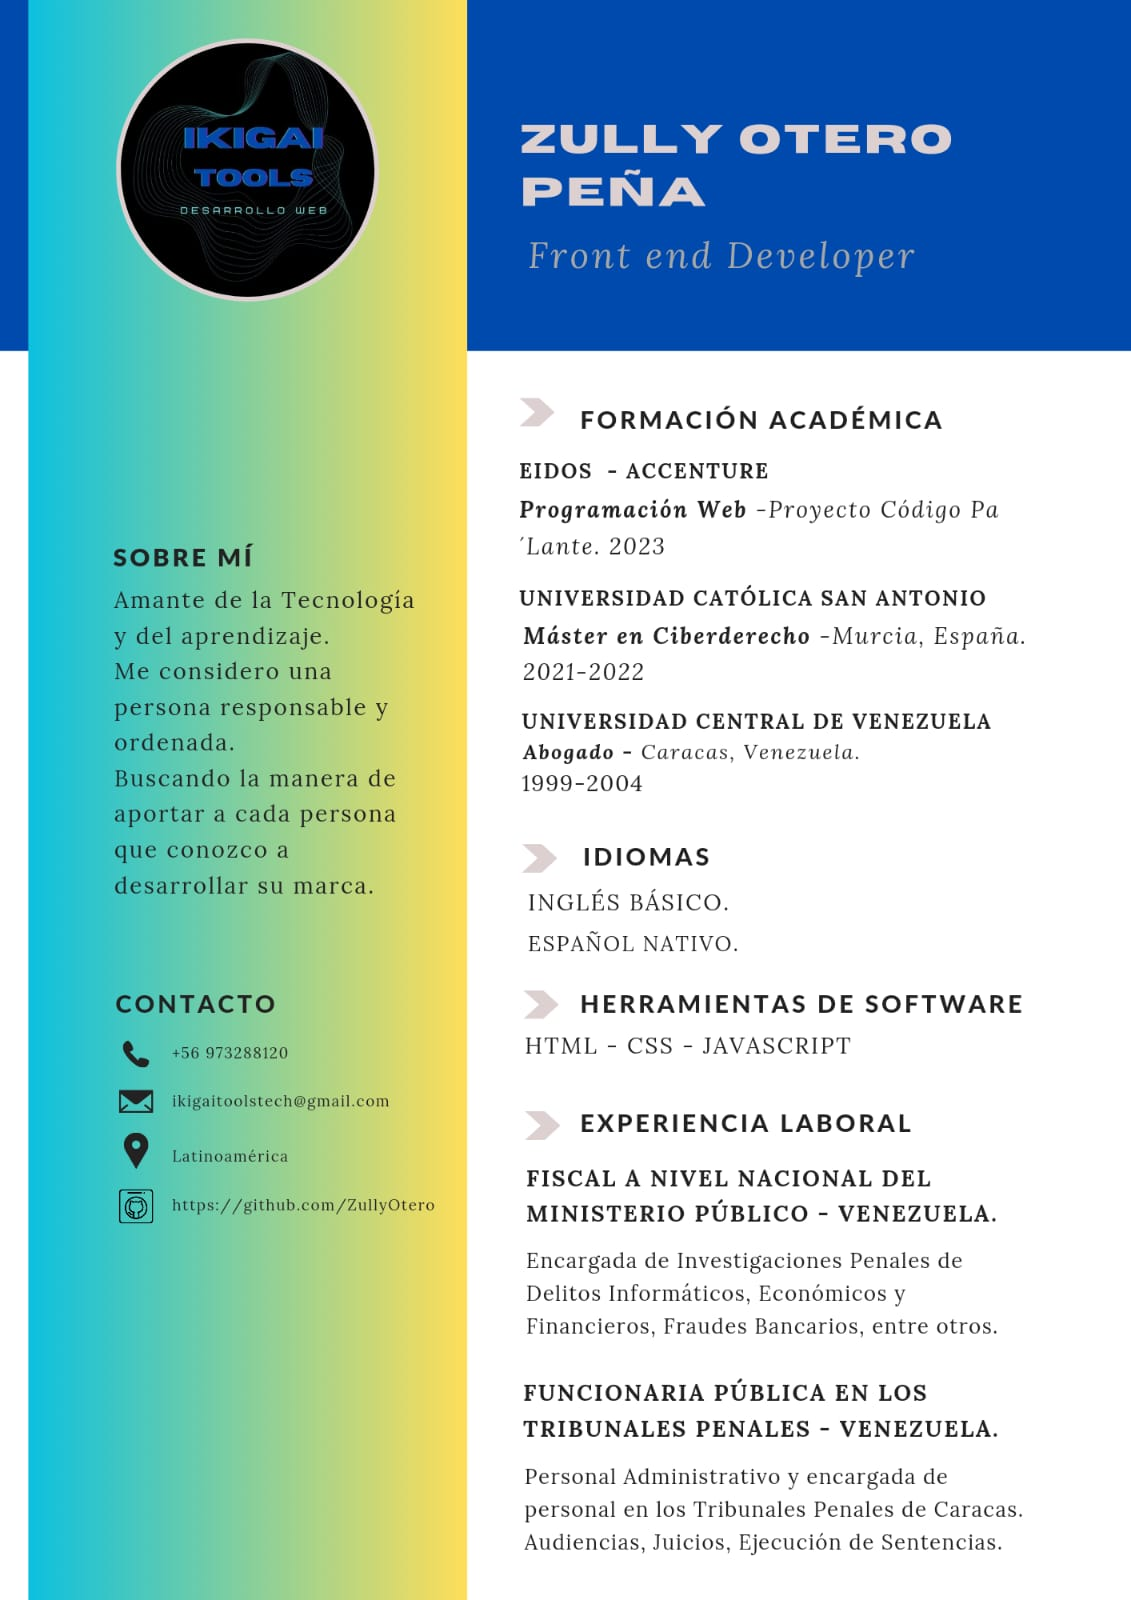
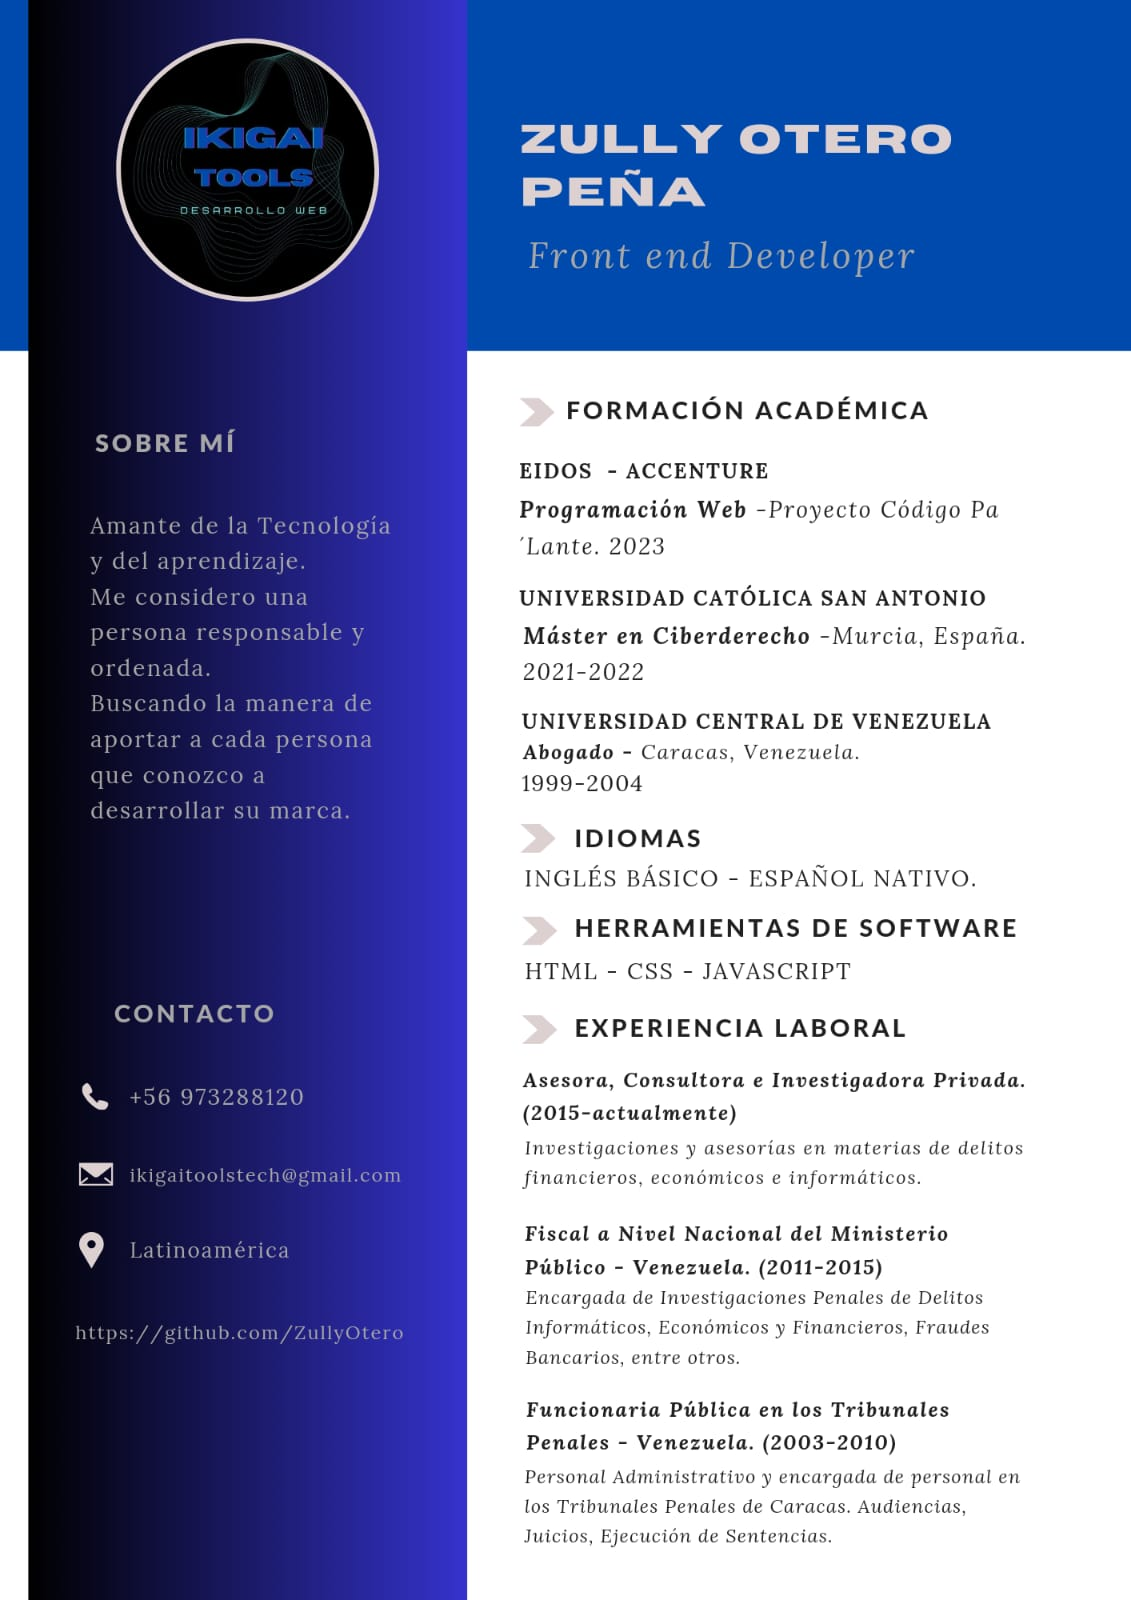
mensaje del commit

diff --git a/css/styles.css b/css/styles.css
@@ -175,9 +175,10 @@ transition: background-color 0.3s;
 }
 
 body.change-background {
-    background-image: linear-gradient(yellow 10%, green 75%, blue 92%);
+    background-image: linear-gradient(70deg, rgb(74, 74, 236), rgb(161, 99, 161));
+      }
+      
 
-}
 
 /*desktop*/
 @media (min-width:1024px) { section#inicio {
